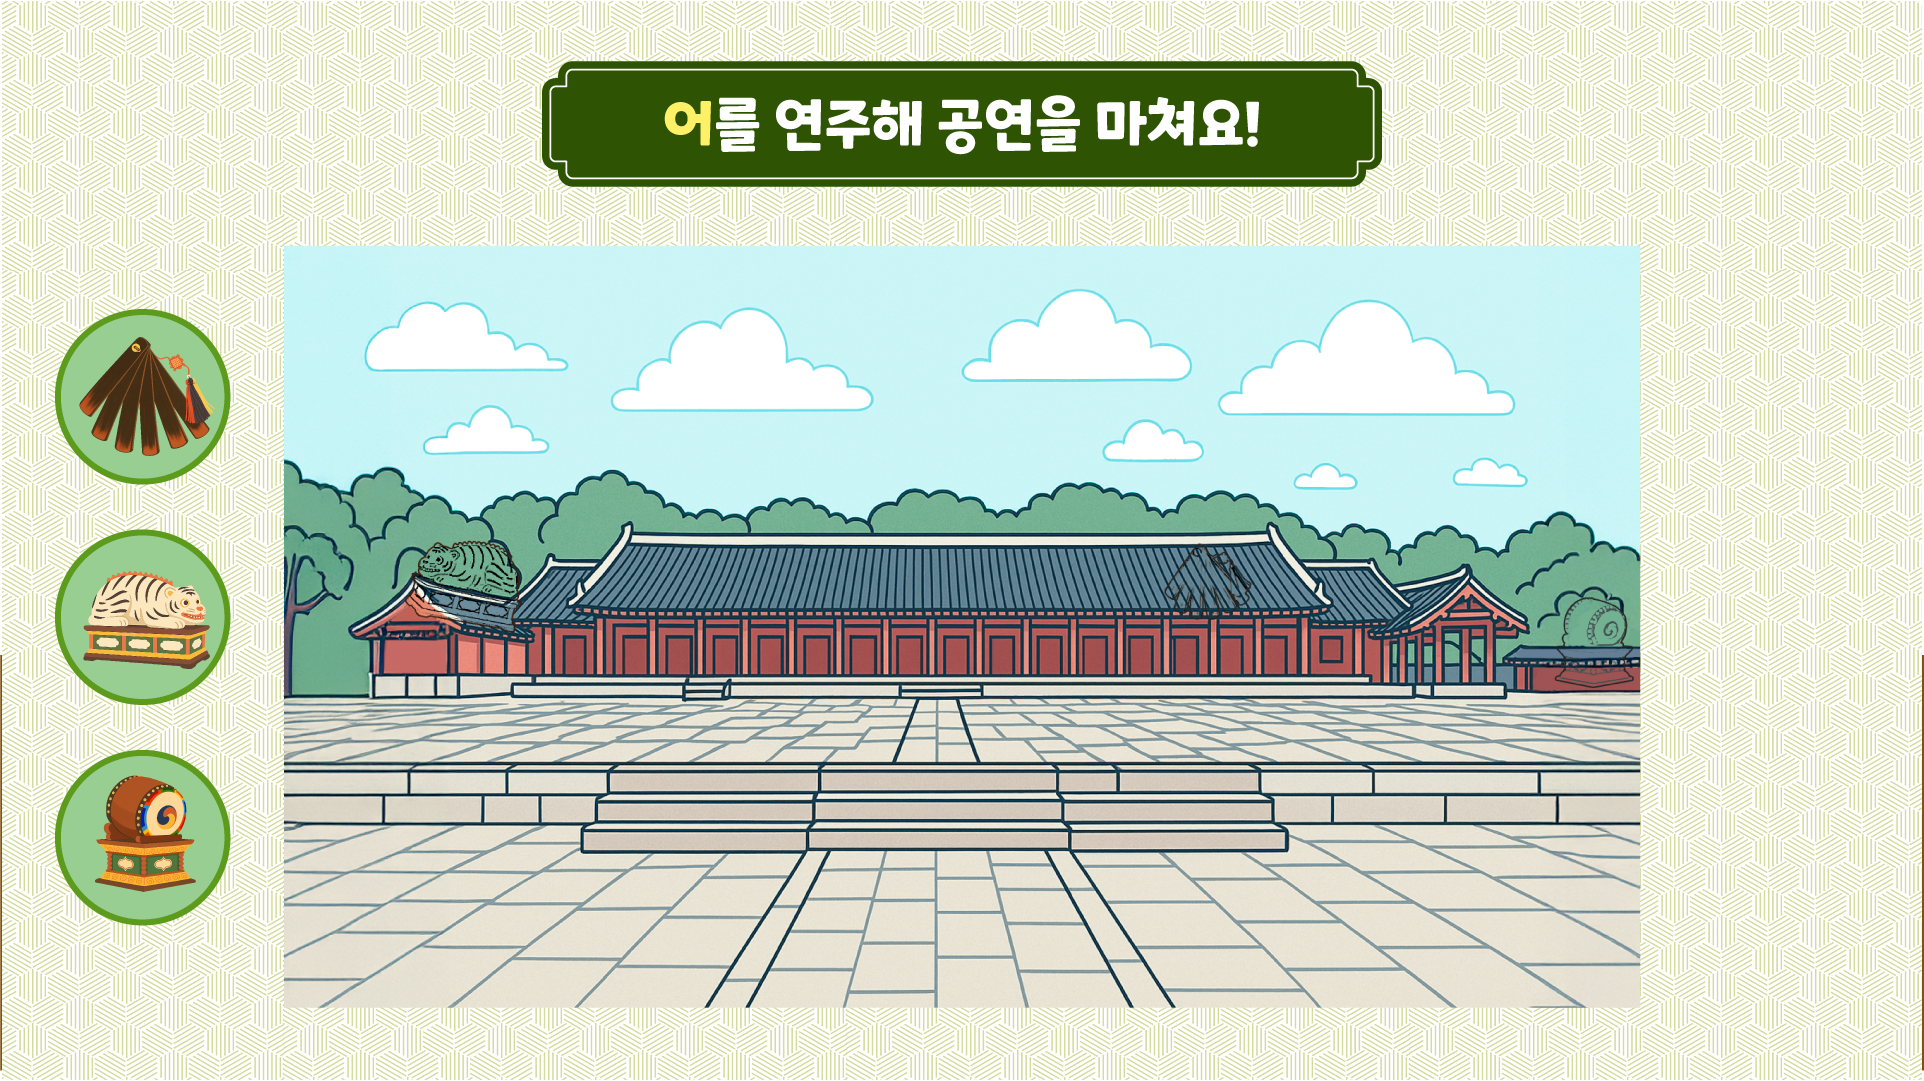
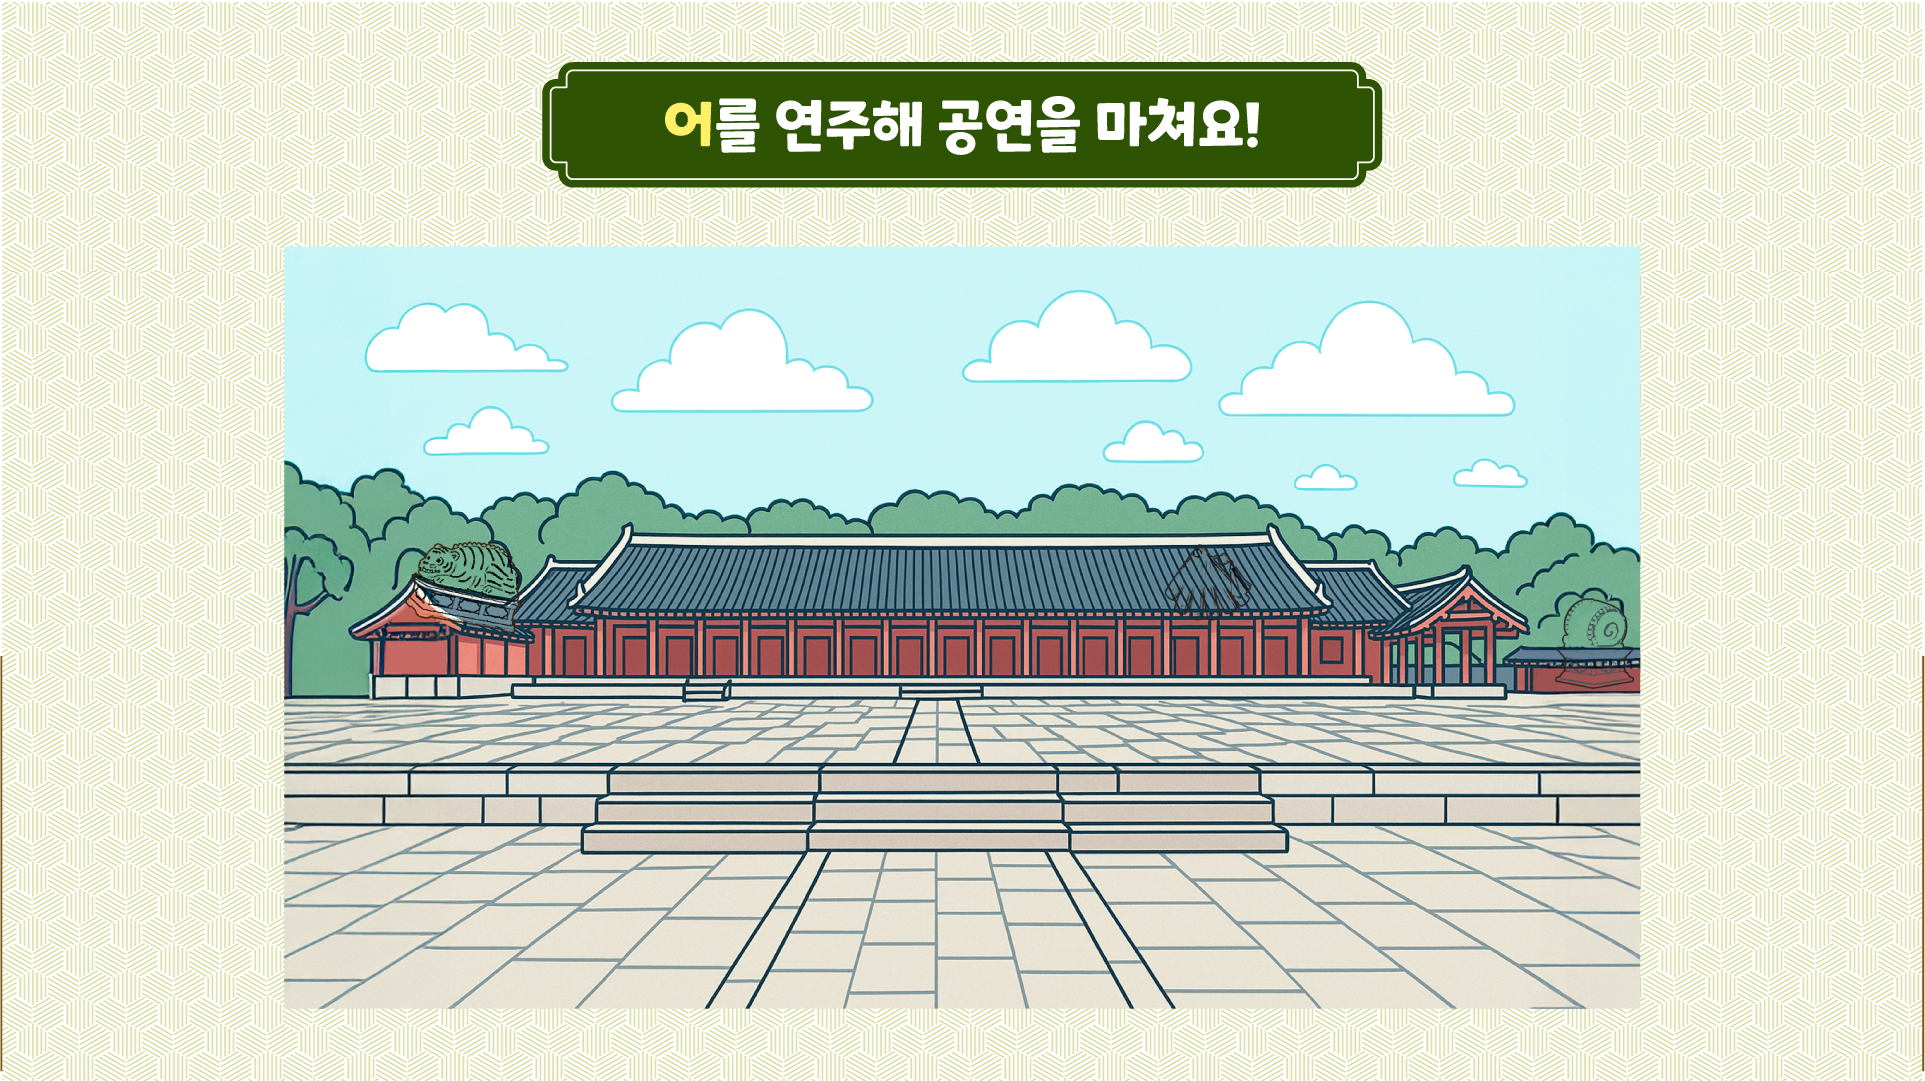
최종 13 - 기존 숨은 그림 찾기의 좌측에 있던 보기를 처음에는 무채색으로 보이다가 악기를 찾으면 색이 들어오도록 수정해주세요.

diff --git a/lowerEl-3/select2.html b/lowerEl-3/select2.html
@@ -87,6 +87,23 @@
               <div class="progress-bar">
                 <div class="progress-bar-fill"></div>
               </div>
+
+              <img
+                src="img/select2/status-bak.png"
+                alt="박 상태"
+                class="status-bak"
+              />
+              <img
+                src="img/select2/status-uh.png"
+                alt="어 상태"
+                class="status-uh"
+              />
+              <img
+                src="img/select2/status-julgo.png"
+                alt="절고 상태"
+                class="status-julgo"
+              />
+
               <img src="img/select2/clock.png" alt="시계" class="clock" />
 
               <!-- targets -->
@@ -94,6 +111,7 @@
               <div
                 class="target click-point-1"
                 data-sound="target-1"
+                data-status="uh"
                 role="button"
               >
                 <img
@@ -108,10 +126,11 @@
                 class="target target-1 display-none"
               />
 
-              <!-- 절고 -->
+              <!-- 박 -->
               <div
                 class="target click-point-2"
                 data-sound="target-2"
+                data-status="bak"
                 role="button"
               >
                 <img
@@ -126,10 +145,11 @@
                 class="target target-2 display-none"
               />
 
-              <!-- 박 -->
+              <!-- 절고 -->
               <div
                 class="target click-point-3"
                 data-sound="target-3"
+                data-status="julgo"
                 role="button"
               >
                 <img

diff --git a/lowerEl-3/css/select.css b/lowerEl-3/css/select.css
@@ -405,6 +405,26 @@
   right: 0.5%;
 }
 
+.status-bak,
+.status-julgo,
+.status-uh {
+  width: 18%;
+  height: 18%;
+  position: absolute;
+}
+.status-bak {
+  top: 26%;
+  left: -2%;
+}
+.status-uh {
+  top: 50%;
+  left: -2%;
+}
+.status-julgo {
+  top: 74%;
+  left: -2%;
+}
+
 .target {
   position: absolute;
 }

diff --git a/lowerEl-3/js/select2.js b/lowerEl-3/js/select2.js
@@ -4,6 +4,9 @@ $(function () {
   const $selectMain = $(".select-main-2");
   const $progressBarFill = $(".progress-bar-fill");
   const $successScreen = $(".select-2-success");
+  const $statusBak = $(".status-bak");
+  const $statusUh = $(".status-uh");
+  const $statusJulgo = $(".status-julgo");
 
   // Audio Elements
   const $bgmTutorial = $("#bgm-tutorial")[0];
@@ -153,7 +156,13 @@ $(function () {
   $(document).on("click", "[class*='click-point-']", function () {
     const $clickPoint = $(this);
     const soundId = $clickPoint.attr("data-sound");
-
+    const status = $clickPoint.attr("data-status");
+    if (status) {
+      $(`.status-${status}`).attr(
+        "src",
+        `img/select2/status-${status}-active.png`
+      );
+    }
     if (clickedTargets.has(soundId)) {
       return;
     }